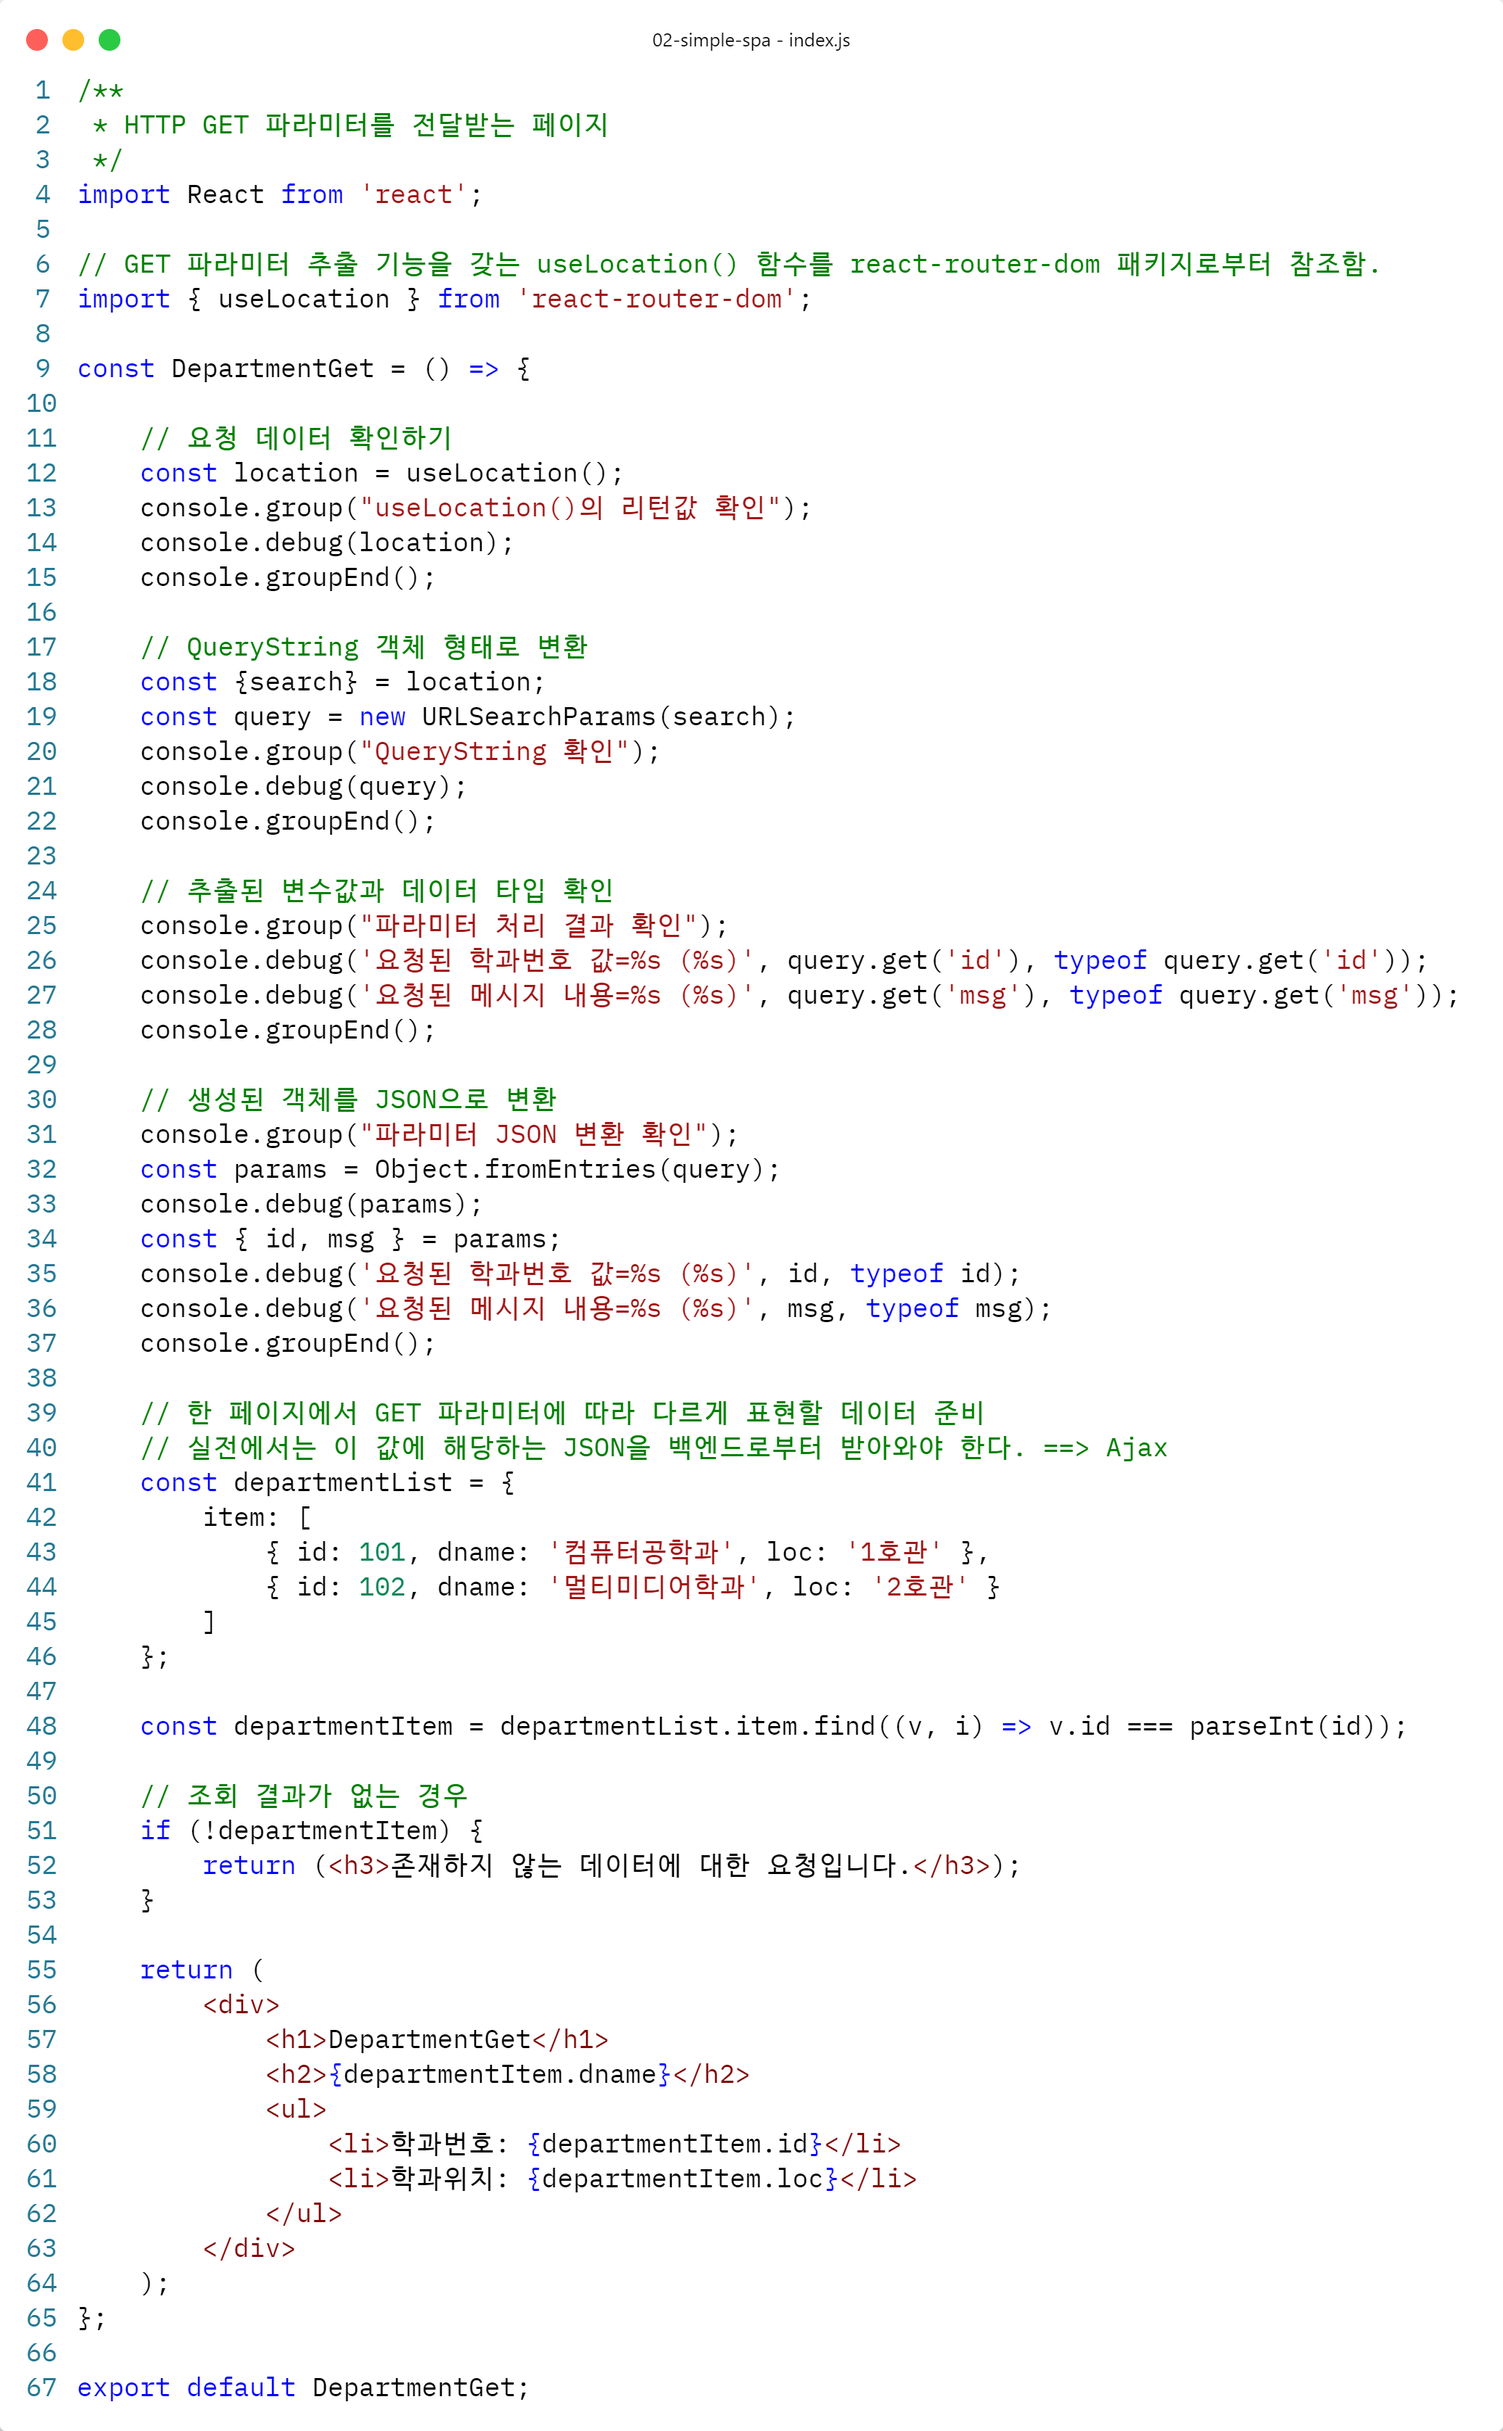
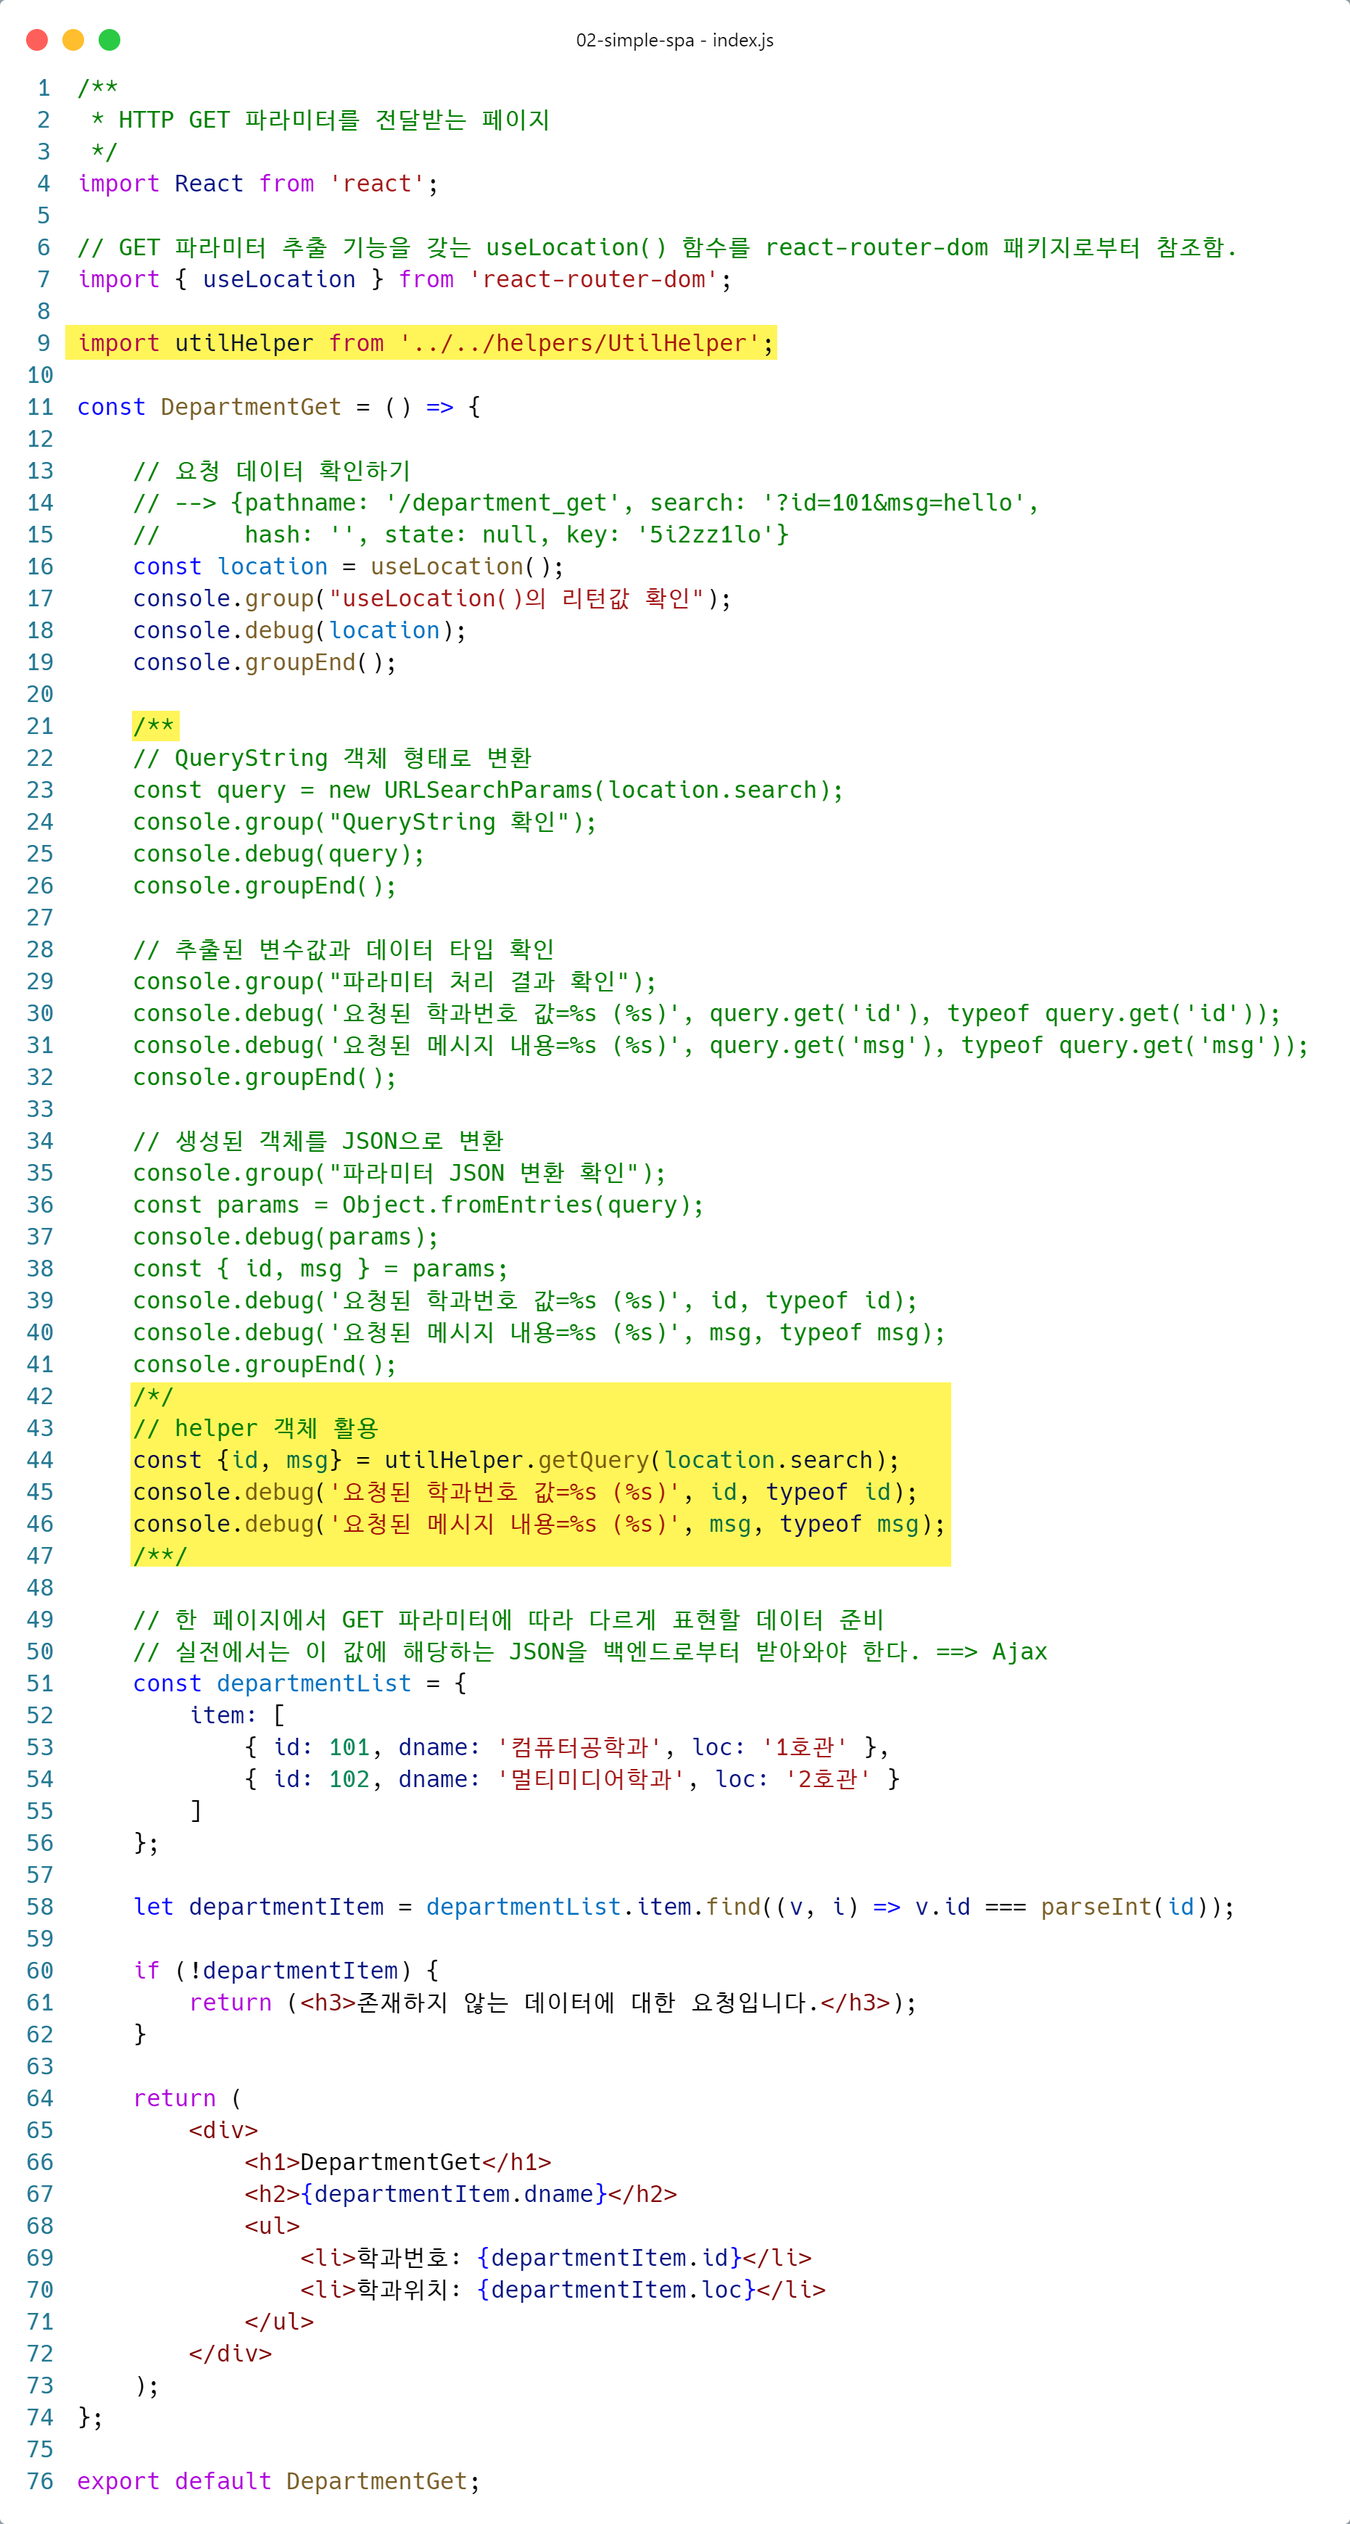
02 Simple SPA | GET/PATH 파라미터 및 Error 페이지 구현

diff --git a/02-simple-spa/src/pages/department_get/index.js b/02-simple-spa/src/pages/department_get/index.js
@@ -1,0 +1,76 @@
+/**
+ * HTTP GET 파라미터를 전달받는 페이지
+ */
+import React from "react";
+
+// GET 파라미터 추출 기능을 갖는 useLocation() 함수를 react-router-dom 패키지로부터 참조함
+import { useLocation } from "react-router-dom";
+
+import utilHelper from "../../helpers/UtilHelper";
+
+const DepartmentGet = () => {
+  // 요청 데이터 확인하기
+  const location = useLocation();
+  console.group("useLocation()의 리턴값 확인");
+  console.log(location);
+  console.groupEnd();
+
+  /**
+  // QueryString 객체 형태로 변환
+  const { search } = location;
+  const query = new URLSearchParams(search);
+  console.group("QueryString 확인");
+  console.debug(query);
+  console.groupEnd();
+
+  // 추출된 변수값과 데이터 타입 확인
+  console.group("QueryString 처리 결과 확인");
+  console.debug("요청된 학과번호 값=%s (%s)", query.get("id"), typeof query.get("id"));
+  console.debug("요청된 메시지 내용=%s (%s)", query.get("msg"), typeof query.get("msg"));
+
+  // 생성된 객체를 JSON으로 변환
+  console.group("파라미터 JSON 변환 확인");
+  // Object.fromEntries() 함수를 사용하여 배열을 객체로 변환
+  const params = Object.fromEntries(query);
+  console.debug(params);
+  const { id, msg } = params;
+  console.debug("요청된 학과번호 값=%s (%s)", id, typeof id);
+  console.debug("요청된 메시지 내용=%s (%s)", msg, typeof msg);
+  console.groupEnd();
+  /*/
+  // helper 객체 활용
+  const { id, msg } = utilHelper.getQuery(location.search);
+  console.debug("요청된 학과번호 값=%s (%s)", id, typeof id);
+  console.debug("요청된 메시지 내용=%s (%s)", msg, typeof msg);
+  /**/
+
+  // 한페이지에서 GET 파라미터에 따라 다르게 표현할 데이터 준비
+  // 실전에서는 이 값에 해당하는 JSON을 백엔드로부터 받아와야한다. ==> Ajax
+  const departmentList = {
+    item: [
+      { id: 101, dname: "컴퓨터공학과", loc: "1호관" },
+      { id: 102, dname: "멀티미디어학과", loc: "2호관" },
+    ],
+  };
+
+  // departmentList.item 배열에서 id와 일치하는 객체를 찾아서 departmentItem에 저장
+  const departmentItem = departmentList.item.find((v, i) => v.id === parseInt(id));
+
+  // 조회 결과가 없는 경우
+  if (!departmentItem) {
+    return <h3>존재하지 않는 데이터에 대한 요청입니다.</h3>;
+  }
+
+  return (
+    <div>
+      <h1>DepartmentGet</h1>
+      <h2>{departmentItem.dname}</h2>
+      <ul>
+        <li>학과번호: {departmentItem.id}</li>
+        <li>학과위치: {departmentItem.loc}</li>
+      </ul>
+    </div>
+  );
+};
+
+export default DepartmentGet;

diff --git a/02-simple-spa/src/App.js b/02-simple-spa/src/App.js
@@ -12,6 +12,10 @@ import { Link, Routes, Route } from "react-router-dom";
 // import할때 폴더 경로까지만 지정할 경우 index.js가 자동으로 식별된다.
 import Home from "./pages/home";
 import About from "./pages/about";
+import Main from "./pages/main";
+import DepartmentGet from "./pages/department_get";
+import DepartmentPath from "./pages/department_path";
+import Error404 from "./pages/error404";
 
 const App = () => {
   return (
@@ -23,6 +27,14 @@ const App = () => {
         {/* 4-1) 기본 라우팅 구성 */}
         <Link to="/">[Home]</Link>
         <Link to="/about">[About]</Link>
+        {/* 5-1) 서브라우팅 사용 */}
+        <Link to="/main">[Main]</Link>
+        {/* 6-1) HTTP GET 파라미터를 포함하는 링크 구성 */}
+        <Link to="/department_get?id=101&msg=hello">[컴퓨터공학과]</Link>
+        <Link to="/department_get?id=102&msg=world">[멀티미디어학과]</Link>
+        {/* 7-1) PATH 파라미터를 포함하는 링크 구성 */}
+        <Link to="/department_path/201/hello">[전자공학과]</Link>
+        <Link to="/department_path/202/world">[기계공학과]</Link>
       </nav>
 
       <a href="/about">일반링크</a>
@@ -33,6 +45,14 @@ const App = () => {
         {/* 첫 페이지로 사용되는 컴포넌트를 path에 "/"를 권장 */}
         <Route path="/" element={<Home />} exact={true} />
         <Route path="/about" element={<About />} />
+        {/* 5-2) 서브라우팅 사용 */}
+        <Route path="/main/*" element={<Main />} />
+        {/* 6-2) GET 파라미터 사용 */}
+        <Route path="/department_get" element={<DepartmentGet />} />
+        {/* 7-2) PATH 파라미터는 URL 형식에 변수의 위치와 이름을 정해줘야 한다. */}
+        <Route path="/department_path/:id/:msg" element={<DepartmentPath />} />
+        {/* 8-2) 지정되지 않은 모든 요청에 대한 반응. 단 Routes블록의 맨 마지막에 배치해야함 */}
+        <Route path="/*" element={<Error404 />} />
       </Routes>
     </div>
   );

diff --git a/02-simple-spa/src/pages/department_path/index.js b/02-simple-spa/src/pages/department_path/index.js
@@ -1,0 +1,49 @@
+/**
+ * PATH 파라미터를 전달받는 페이지
+ */
+import React from "react";
+
+// PATH 파라미터 추출 기능을 갖는 useParams() 함수를 react-router-dom 패키지로부터 참조함
+import { useParams } from "react-router-dom";
+
+const DepartmentPath = () => {
+  // 요청 데이터 확인하기
+  const params = useParams();
+  console.group("useParams()의 리턴값 확인");
+  console.debug(params);
+  console.groupEnd();
+
+  // 필요한 변수값과 타입 확인
+  console.debug("요청된 학과번호 값=%s (%s)", params.id, typeof params.id);
+  console.debug("요청된 메시지 내용=%s (%s)", params.msg, typeof params.msg);
+  console.groupEnd();
+
+  // 한페이지에서 GET 파라미터에 따라 다르게 표현할 데이터 준비
+  // 실전에서는 이 값에 해당하는 JSON을 백엔드로부터 받아와야한다. ==> Ajax
+  const departmentList = {
+    item: [
+      { id: 201, dname: "전자공학과", loc: "3호관" },
+      { id: 202, dname: "기계공학관", loc: "4호관" },
+    ],
+  };
+
+  const departmentItem = departmentList.item.find((v, i) => v.id === parseInt(params.id));
+
+  // 조회 결과가 없는 경우
+  if (!departmentItem) {
+    return <h3>조회된 학과가 없습니다.</h3>;
+  }
+
+  return (
+    <div>
+      <h1>DepartmentPath</h1>
+      <h2>{departmentItem.dname}</h2>
+      <ul>
+        <li>학과번호: {departmentItem.id}</li>
+        <li>학과위치: {departmentItem.loc}</li>
+      </ul>
+    </div>
+  );
+};
+
+export default DepartmentPath;

diff --git a/02-simple-spa/src/helpers/UtilHelper.js b/02-simple-spa/src/helpers/UtilHelper.js
@@ -1,0 +1,56 @@
+/**
+ * UtilHelper.js
+ *
+ * 재사용 가능한 기능들을 모아 놓은 클래스
+ *
+ * - Javascript 21단윈 UtilHelper.js 파일 재사용
+ */
+
+class UtilHelper {
+  /**
+   * URL의 queryString을 JSON객체로 변환하여 리턴한다.
+   * @param {string} QueryString 문자열 (ex. ?a=100&b=200)
+   * @return json object
+   */
+
+  getQuery(search = location.search) {
+    const query = new URLSearchParams(search);
+    return Object.fromEntries(query);
+  }
+
+  /**
+   * 쿠키에 저장된 값을 반환한다. 값이 없을 경우 undefined를 반환한다.
+   * @param {string} name - 쿠키의 이름
+   * @param 쿠키값
+   */
+  getCookie(name) {
+    const regex = new RegExp("(?:^|; )" + name.replace(/([\.$?*|{}\(\)\[\]\\\/\+^])/g, "\\$1") + "=([^;]*)");
+
+    let matches = document.cookie.match(regex);
+
+    return matches ? decodeURIComponent(matches[1]) : undefined;
+  }
+
+  /**
+   * 쿠키를 저장한다.
+   * @param {string} name - 쿠키 이름
+   * @param {*} value - 저장할 값
+   * @param {number} maxAge - 유효시간(초단위)
+   */
+  setCookie(name, value, maxAge) {
+    const encName = encodeURIComponent(name);
+    const encValue = encodeURIComponent(value);
+    let updatedCookie = `${encName}=${encValue};`;
+
+    updatedCookie += "path=/;";
+
+    if (maxAge !== undefined) {
+      updatedCookie += `max-age=${maxAge}`;
+    }
+
+    document.cookie = updatedCookie;
+  }
+}
+
+//const utilHelper = new UtilHelper();
+export default new UtilHelper();

diff --git a/02-simple-spa/src/pages/main/index.js b/02-simple-spa/src/pages/main/index.js
@@ -1,0 +1,30 @@
+import React from "react";
+
+import { Link, Routes, Route } from "react-router-dom";
+
+import MainSub1 from "./MainSub1";
+import MainSub2 from "./MainSub2";
+
+const Main = () => {
+  return (
+    <div>
+      <h1>Main</h1>
+
+      {/* 링크 구성 부분 */}
+      <nav>
+        <Link to="sub1">[MainSub1]</Link>
+        <Link to="sub2">[MainSub2]</Link>
+      </nav>
+
+      {/* 페이지 역할을 할 컴포넌트를 명시하기 */}
+      <Routes>
+        {/* http://localhost:3000/main/sub1 */}
+        <Route path="sub1" element={<MainSub1 />} />
+        {/* http://localhost:3000/main/sub2 */}
+        <Route path="sub2" element={<MainSub2 />} />
+      </Routes>
+    </div>
+  );
+};
+
+export default Main;

diff --git a/02-simple-spa/src/pages/error404/index.js b/02-simple-spa/src/pages/error404/index.js
@@ -1,0 +1,13 @@
+import React from "react";
+
+const Error404 = () => {
+  return (
+    <div>
+      <h1>Error 404</h1>
+      <h2>Opps~!</h2>
+      <h3>요청하신 페이지는 존재하지 않습니다.</h3>
+    </div>
+  );
+};
+
+export default Error404;

diff --git a/02-simple-spa/src/pages/main/MainSub1.js b/02-simple-spa/src/pages/main/MainSub1.js
@@ -1,0 +1,11 @@
+import React from "react";
+
+const MainSub1 = () => {
+  return (
+    <div>
+      <h3>여기는 Main의 하위 페이지인 MainSub1 입니다.</h3>
+    </div>
+  );
+};
+
+export default MainSub1;

diff --git a/02-simple-spa/src/pages/main/MainSub2.js b/02-simple-spa/src/pages/main/MainSub2.js
@@ -1,0 +1,11 @@
+import React from "react";
+
+const MainSub2 = () => {
+  return (
+    <div>
+      <h3>여기는 Main의 하위 페이지인 MainSub2 입니다.</h3>
+    </div>
+  );
+};
+
+export default MainSub2;
